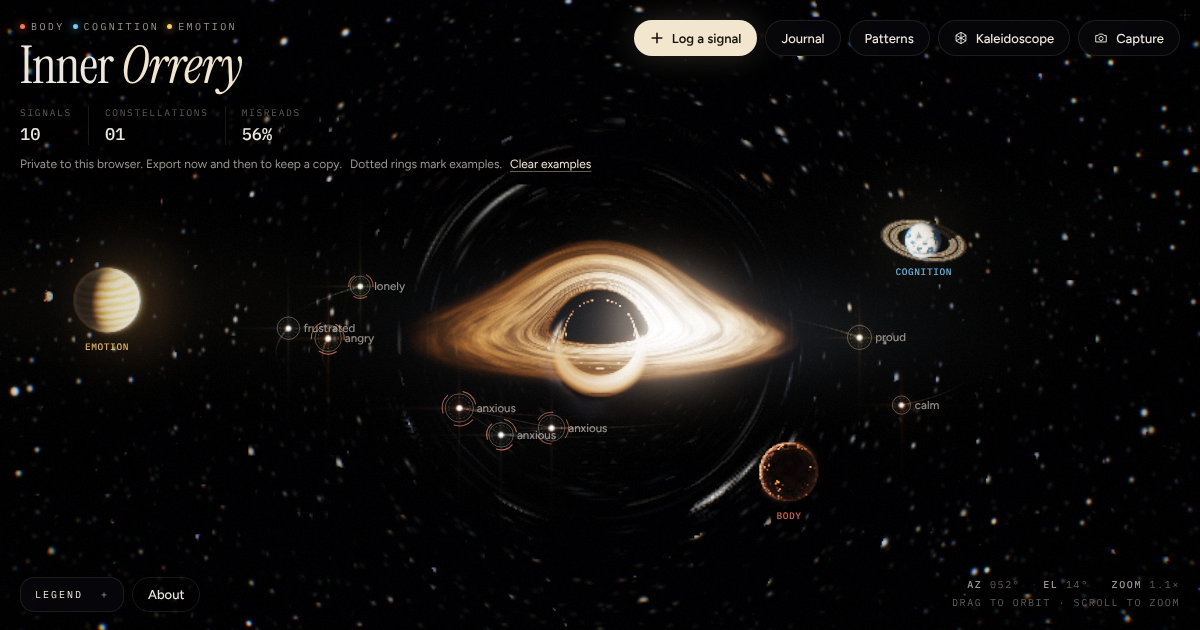
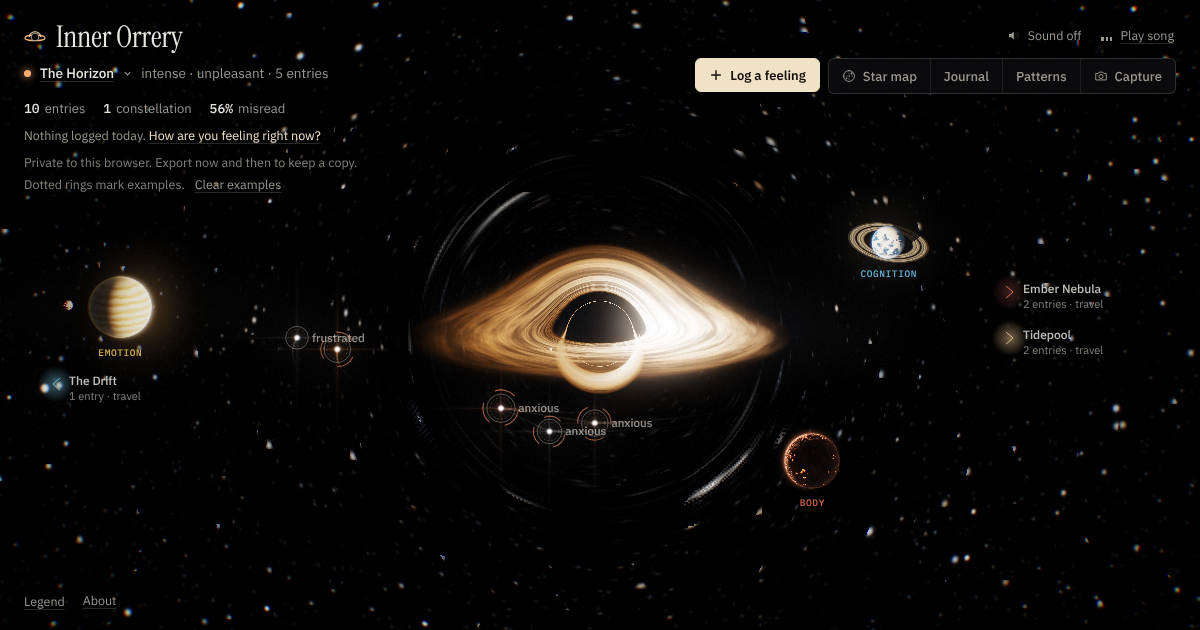
Final QA pass: README and link preview
Run a 30-check regression suite (logging, travel, journal, patterns,
report, map, song, delete/undo, persistence, axe on every view, phone
overflow, page errors); all pass. Rewrite the README to cover every
feature and refresh the link preview image.

Claude-Session: https://claude.ai/code/session_01GTHVk8gGLigyH5ekgXVzVv

diff --git a/README.md b/README.md
@@ -1,27 +1,47 @@
 # Inner Orrery
 
-An emotion journal drawn as a ray-traced black hole, made for the **Kaleidoscope Project: Body, Cognition and Emotion and Their Interactions**.
+An emotion journal you can fly through, made for the **Kaleidoscope Project: Body, Cognition and Emotion and Their Interactions**.
 
-Every feeling you log becomes a star orbiting a black hole. Its color is its mix of the three "beads" (body, cognition, emotion), its distance from the horizon is its intensity, and entries that share a body signature, context, baseline or trigger link up into constellations. Feelings with the same label fall into resonance and orbit together, and older signals sink slowly inward: history becomes baseline.
+Every feeling you log becomes a star. Its color mixes the three "beads" of the kaleidoscope (body, cognition, emotion), its distance from the center is its intensity, and entries that share a body sensation, a context, a baseline or trigger words link up into constellations. Feelings with the same name fall into resonance and orbit together, and older entries sink slowly inward: history becomes baseline.
 
-## What's inside
+Live at **https://inner-orrery.pages.dev**
 
-- **A real black hole.** Each pixel traces a light ray through the Schwarzschild metric in WebGL2: gravitational lensing, the lensed far side of the accretion disk, the photon ring, Doppler beaming and gravitational redshift. The wide-field bending is softened slightly so the background stays readable.
-- **An explorable universe.** Feelings are placed on Russell's circumplex model of affect (valence × arousal), and each quarter is a different place: **The Horizon** (intense, unpleasant) is a black hole, **Ember Nebula** (intense, pleasant) a stellar nursery, **Tidepool** (calm, pleasant) a quiet sun with a red-dwarf companion, and **The Drift** (calm, unpleasant) a planetary nebula. The **Star map** is a spiral galaxy that plots every entry on the two axes; warp between regions from the map, the markers on the horizon, or keys 1–4 and M.
-- **The seven parameters.** Each log walks through label, bodily signature, trigger, context, history and baseline, failure mode, and regulation.
-- **Patterns.** Bead balance, misread rate, how baseline affects misreads, which regulation strategies lowered intensity, and recurring signatures.
-- **Replay, Capture, Export and Import.**
-- **Sound.** A generative score plays quietly in the background and changes key and mood with each region, with soft sounds for hovering, opening entries, warping and saving. Turn it off from the speaker button or Settings.
-- **Play song.** The button in the top-right corner plays a track made for this project and swaps the page for a picture while it plays.
-- **Settings.** Visual quality, motion, shortcut keys, sound, and your data (export or delete everything, with undo).
+## How it works
+
+1. **Log a feeling.** Eight short questions walk through the seven parameters from class (label, bodily signature, trigger, context, history and baseline, failure mode, regulation) plus how loud each bead was. Only the name is required.
+2. **It lands in a region of space.** Each feeling is placed on Russell's circumplex model of affect, by valence (unpleasant to pleasant) and arousal (calm to intense), and each quarter is its own place:
+
+   | Region | Feelings | What is there |
+   | --- | --- | --- |
+   | The Horizon | intense, unpleasant | a black hole |
+   | Ember Nebula | intense, pleasant | a stellar nursery around a young cluster |
+   | Tidepool | calm, pleasant | a sun with a red-dwarf companion |
+   | The Drift | calm, unpleasant | a planetary nebula around a white dwarf |
+
+3. **Patterns form.** The Patterns view says in plain sentences what the entries show (how baseline changed misreads, each feeling's bodily signature, what lowered intensity), charts intensity before and after each entry, and breaks down the beads, regions, reads and regulation.
+
+## Features
+
+- **Real physics.** The black hole is ray-traced through the Schwarzschild metric in WebGL2: gravitational lensing, the lensed far side of the disk, the photon ring, Doppler beaming and gravitational redshift. Journal stars behind it are lensed too. The nebulae are volumetric; the planets are lit by each region's light.
+- **Star map.** A spiral galaxy plots every entry on the two circumplex axes, with trails joining feelings of the same name from oldest to newest.
+- **Journal.** Search, filter by region or misreads, sort, edit, delete with undo, and replay the whole sky in order.
+- **Project report.** Patterns → Export project report saves a printable HTML summary with a picture of the sky, the framework, the insights and every entry.
+- **Sound.** A generative score plays quietly and changes key and mood with each region, with soft sounds for exploring. The Play song button in the top-right corner plays a track made for this project and swaps the page for a picture while it plays.
+- **Settings.** Visual quality (including a flat, non-3D view), motion, shortcut keys, sound, and your data.
+- **Resilient.** If the 3D view is lost or a device cannot keep up, the page switches to a lighter view and recovers when it can.
+- **Accessible.** Keyboard reachable, screen-reader labels and a skip link, reduced-motion support, and no axe-core violations.
 
 ## Privacy
 
-There is no server and no account. Journal entries are saved only in the visitor's own browser (`localStorage`), so every visitor gets their own private sky. Clearing site data erases it, so use **Journal → JSON** to keep a backup, and **Import** to restore it or move it to another device.
+There is no server and no account. Entries are saved only in the visitor's own browser (`localStorage`), so every visitor gets a private sky. Clearing site data erases it; use **Journal → JSON** to back up and **Import** to restore or move to another device. The journal reminds you when a backup is due.
+
+## Controls
+
+Drag or arrow keys to orbit · scroll, pinch or +/− to zoom · double-click or 0 to reset · 1–4 to travel to a region · M for the star map · Escape to close.
 
 ## Deploying
 
-It is a static site with no build step. On Cloudflare Pages: framework preset **None**, build command empty, build output directory empty (the repository root). Every push to `main` deploys.
+A static site with no build step. On Cloudflare Pages: framework preset **None**, build command empty, build output directory empty (the repository root). Every push to `main` deploys.
 
 | File | Purpose |
 | --- | --- |
@@ -29,7 +49,5 @@ It is a static site with no build step. On Cloudflare Pages: framework preset **
 | `hidden-track.mp3` | The song behind Play song |
 | `keys.jpg` | The picture shown while the song plays |
 | `og.png` | Link preview image |
-| `favicon.svg` | Tab icon |
+| `favicon.svg`, `icon-*.png`, `manifest.webmanifest` | Icons and home-screen install |
 | `_headers` | Cloudflare Pages response headers |
-
-Controls: drag or arrow keys to orbit, scroll, pinch or +/− to zoom, double-click or 0 to reset, 1–4 to travel to a region, M for the Star map.
